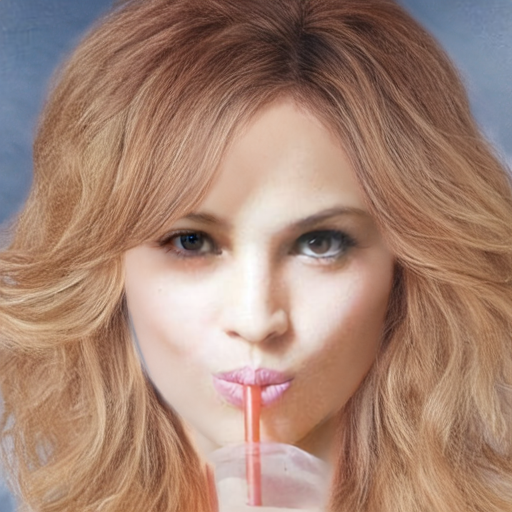
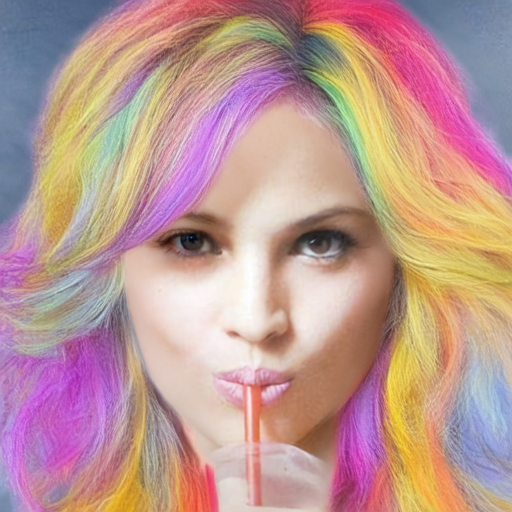
run5_1 4-arm eval 리포트: CM_1082 원본 스케치 오류 수정, 본문 정리
CM_1082는 data/test/sketch가 이미 재착색된 버전이었음(원본 아님) — dataset/sketch로
교체하고 §1.3의 run5_1·run4 4-arm 8장 전부 재생성.

diff --git a/reports/[DIGLAB][0811][장서현].md b/reports/[DIGLAB][0811][장서현].md
@@ -13,9 +13,8 @@
 
 **이번 결과 / 막힌 것 / 다음**
 - 결과: 4-arm 전부 결합(T15+CRG2.0)이 방향 지표 전 항목 최선(§1.1)
-- 결과: run5_1은 raw 스케치 원색 무시하고 자연색 생성, run4(40epoch)는 원색 그대로 재현(§1.3)
+- 결과: run5_1 15epoch로 colorful sketch에 대해 생성했을 때, colorful sketch 무시하고 자연색 생성, run4(40epoch)는 원색 그대로 재현 => epoch 수 늘리면 재현할 것으로 예상(§1.3) 
 - 결과: run5_1은 img·CRG 없이도 matte 밖에 자연스러운 얼굴 구조 생성, mcs2는 격자 텍스처로 붕괴(§2)
-- 막힌 것: 실험2, timestep 버그 단일 원인 격리 아님 — 체크포인트 전체가 다른 모델(§2.2) 🔴
 
 ---
 
@@ -69,7 +68,7 @@ epoch15), seed42.
 
 | | CM_1007 | CM_1027 | CM_1033 | CM_1067 | CM_1068 | CM_1082 | CM_1084 | CM_1172 |
 |---|---|---|---|---|---|---|---|---|
-| color 스케치 | <img src="../data/test/sketch/CM_1007.png" width="100"> | <img src="../data/test/sketch/CM_1027.png" width="100"> | <img src="../data/test/sketch/CM_1033.png" width="100"> | <img src="../data/test/sketch/CM_1067.png" width="100"> | <img src="../data/test/sketch/CM_1068.png" width="100"> | <img src="../data/test/sketch/CM_1082.png" width="100"> | <img src="../data/test/sketch/CM_1084.png" width="100"> | <img src="../data/test/sketch/CM_1172.png" width="100"> |
+| color 스케치 | <img src="../data/test/sketch/CM_1007.png" width="100"> | <img src="../data/test/sketch/CM_1027.png" width="100"> | <img src="../data/test/sketch/CM_1033.png" width="100"> | <img src="../data/test/sketch/CM_1067.png" width="100"> | <img src="../data/test/sketch/CM_1068.png" width="100"> | <img src="../dataset/sketch/CM_1082.png" width="100"> | <img src="../data/test/sketch/CM_1084.png" width="100"> | <img src="../data/test/sketch/CM_1172.png" width="100"> |
 | 1: T∞/w=1 | <img src="../outputs/0811/eval8_raw/T_inf_w1/42/CM_1007.png" width="100"> | <img src="../outputs/0811/eval8_raw/T_inf_w1/42/CM_1027.png" width="100"> | <img src="../outputs/0811/eval8_raw/T_inf_w1/42/CM_1033.png" width="100"> | <img src="../outputs/0811/eval8_raw/T_inf_w1/42/CM_1067.png" width="100"> | <img src="../outputs/0811/eval8_raw/T_inf_w1/42/CM_1068.png" width="100"> | <img src="../outputs/0811/eval8_raw/T_inf_w1/42/CM_1082.png" width="100"> | <img src="../outputs/0811/eval8_raw/T_inf_w1/42/CM_1084.png" width="100"> | <img src="../outputs/0811/eval8_raw/T_inf_w1/42/CM_1172.png" width="100"> |
 | 2: T15/w=1 | <img src="../outputs/0811/eval8_raw/T15_w1/42/CM_1007.png" width="100"> | <img src="../outputs/0811/eval8_raw/T15_w1/42/CM_1027.png" width="100"> | <img src="../outputs/0811/eval8_raw/T15_w1/42/CM_1033.png" width="100"> | <img src="../outputs/0811/eval8_raw/T15_w1/42/CM_1067.png" width="100"> | <img src="../outputs/0811/eval8_raw/T15_w1/42/CM_1068.png" width="100"> | <img src="../outputs/0811/eval8_raw/T15_w1/42/CM_1082.png" width="100"> | <img src="../outputs/0811/eval8_raw/T15_w1/42/CM_1084.png" width="100"> | <img src="../outputs/0811/eval8_raw/T15_w1/42/CM_1172.png" width="100"> |
 | 3: T∞/CRG2.0 | <img src="../outputs/0811/eval8_raw/T_inf_crg2/42/CM_1007.png" width="100"> | <img src="../outputs/0811/eval8_raw/T_inf_crg2/42/CM_1027.png" width="100"> | <img src="../outputs/0811/eval8_raw/T_inf_crg2/42/CM_1033.png" width="100"> | <img src="../outputs/0811/eval8_raw/T_inf_crg2/42/CM_1067.png" width="100"> | <img src="../outputs/0811/eval8_raw/T_inf_crg2/42/CM_1068.png" width="100"> | <img src="../outputs/0811/eval8_raw/T_inf_crg2/42/CM_1082.png" width="100"> | <img src="../outputs/0811/eval8_raw/T_inf_crg2/42/CM_1084.png" width="100"> | <img src="../outputs/0811/eval8_raw/T_inf_crg2/42/CM_1172.png" width="100"> |
@@ -78,36 +77,32 @@ epoch15), seed42.
 **관찰**: run5_1, 8장 전부 raw 스케치 원색(녹색·무지개 등) 무시, 자연스러운 갈색·금발
 톤으로 생성 — CRG·densify 여부와 무관하게 일관.
 
-🔴 **원인 확인용 추가 생성**: run5_1은 epoch15 체크포인트. `[DIGLAB][0730][장서현]
-run4_results.md` "Colorful sketch" 표, epoch30 이후 색 뚜렷해지는 관찰 존재 — epoch15
-시점 색 조건 학습 미완성 가능성. 40epoch까지 학습한 run4(`checkpoints/run4_phase1/
-epoch_40_infer.pth`, `configs/lpips_low_phase1.yaml`)로 동일 4-arm 추가 생성(같은 raw
+run5_1은 epoch15 체크포인트. `[DIGLAB][0730][장서현]
+run4_results.md` "Colorful sketch" 표를 보면, epoch30 이후에 색이 뚜렷해지는 관찰 존재 — epoch15
+시점에는 색 조건 학습 미완성 가능성 있음. 40epoch까지 학습한 run4로 동일 4-arm 추가 생성(같은 raw
 스케치·seed42, T15 densify 스케치는 run5_1과 공유).
 
 | | CM_1007 | CM_1027 | CM_1033 | CM_1067 | CM_1068 | CM_1082 | CM_1084 | CM_1172 |
 |---|---|---|---|---|---|---|---|---|
+| color 스케치 | <img src="../data/test/sketch/CM_1007.png" width="100"> | <img src="../data/test/sketch/CM_1027.png" width="100"> | <img src="../data/test/sketch/CM_1033.png" width="100"> | <img src="../data/test/sketch/CM_1067.png" width="100"> | <img src="../data/test/sketch/CM_1068.png" width="100"> | <img src="../dataset/sketch/CM_1082.png" width="100"> | <img src="../data/test/sketch/CM_1084.png" width="100"> | <img src="../data/test/sketch/CM_1172.png" width="100"> |
 | 1: T∞/w=1 | <img src="../outputs/0811/epoch40_run4_eval8_raw/42/CM_1007.png" width="100"> | <img src="../outputs/0811/epoch40_run4_eval8_raw/42/CM_1027.png" width="100"> | <img src="../outputs/0811/epoch40_run4_eval8_raw/42/CM_1033.png" width="100"> | <img src="../outputs/0811/epoch40_run4_eval8_raw/42/CM_1067.png" width="100"> | <img src="../outputs/0811/epoch40_run4_eval8_raw/42/CM_1068.png" width="100"> | <img src="../outputs/0811/epoch40_run4_eval8_raw/42/CM_1082.png" width="100"> | <img src="../outputs/0811/epoch40_run4_eval8_raw/42/CM_1084.png" width="100"> | <img src="../outputs/0811/epoch40_run4_eval8_raw/42/CM_1172.png" width="100"> |
 | 2: T15/w=1 | <img src="../outputs/0811/epoch40_run4_eval8_raw_T15_w1/42/CM_1007.png" width="100"> | <img src="../outputs/0811/epoch40_run4_eval8_raw_T15_w1/42/CM_1027.png" width="100"> | <img src="../outputs/0811/epoch40_run4_eval8_raw_T15_w1/42/CM_1033.png" width="100"> | <img src="../outputs/0811/epoch40_run4_eval8_raw_T15_w1/42/CM_1067.png" width="100"> | <img src="../outputs/0811/epoch40_run4_eval8_raw_T15_w1/42/CM_1068.png" width="100"> | <img src="../outputs/0811/epoch40_run4_eval8_raw_T15_w1/42/CM_1082.png" width="100"> | <img src="../outputs/0811/epoch40_run4_eval8_raw_T15_w1/42/CM_1084.png" width="100"> | <img src="../outputs/0811/epoch40_run4_eval8_raw_T15_w1/42/CM_1172.png" width="100"> |
 | 3: T∞/CRG2.0 | <img src="../outputs/0811/epoch40_run4_eval8_raw_Tinf_crg2/42/CM_1007.png" width="100"> | <img src="../outputs/0811/epoch40_run4_eval8_raw_Tinf_crg2/42/CM_1027.png" width="100"> | <img src="../outputs/0811/epoch40_run4_eval8_raw_Tinf_crg2/42/CM_1033.png" width="100"> | <img src="../outputs/0811/epoch40_run4_eval8_raw_Tinf_crg2/42/CM_1067.png" width="100"> | <img src="../outputs/0811/epoch40_run4_eval8_raw_Tinf_crg2/42/CM_1068.png" width="100"> | <img src="../outputs/0811/epoch40_run4_eval8_raw_Tinf_crg2/42/CM_1082.png" width="100"> | <img src="../outputs/0811/epoch40_run4_eval8_raw_Tinf_crg2/42/CM_1084.png" width="100"> | <img src="../outputs/0811/epoch40_run4_eval8_raw_Tinf_crg2/42/CM_1172.png" width="100"> |
 | 4: T15/CRG2.0 | <img src="../outputs/0811/epoch40_run4_eval8_raw_T15_crg2/42/CM_1007.png" width="100"> | <img src="../outputs/0811/epoch40_run4_eval8_raw_T15_crg2/42/CM_1027.png" width="100"> | <img src="../outputs/0811/epoch40_run4_eval8_raw_T15_crg2/42/CM_1033.png" width="100"> | <img src="../outputs/0811/epoch40_run4_eval8_raw_T15_crg2/42/CM_1067.png" width="100"> | <img src="../outputs/0811/epoch40_run4_eval8_raw_T15_crg2/42/CM_1068.png" width="100"> | <img src="../outputs/0811/epoch40_run4_eval8_raw_T15_crg2/42/CM_1082.png" width="100"> | <img src="../outputs/0811/epoch40_run4_eval8_raw_T15_crg2/42/CM_1084.png" width="100"> | <img src="../outputs/0811/epoch40_run4_eval8_raw_T15_crg2/42/CM_1172.png" width="100"> |
 
-**관찰**: run4(40epoch), 8장 전부 raw 스케치 원색 그대로 재현(무지개색 포함) — run5_1과
-정반대. epoch 수 차이(15 vs 40)와 별개로 loss·noise-gate 레시피 차이(run5_1만 noise-gate
-LPIPS 적용)도 동시에 다른 변수 — 색 미추종 원인을 epoch 부족 단독으로 보기엔 근거 부족.
+**관찰**: run4(40epoch), 8장 전부 스케치 원색 그대로 재현(무지개색 포함) - run5_1도 epoch 30이후에는 색 적용 될것으로 추정
 
 ---
 
 ## 2. 실험 2: backbone prior 비교 (mcs2 vs run5_1)
 
-**지침**: mcs2는 timestep 관례 오류로 프리즌 DiT prior 무력화, ControlNet이 머리 구조를
+**지침**: mcs2는 timestep 관례 오류로 frozen DiT prior 무력화, ControlNet이 머리 구조를
 통째로 생성(CN=전체 내용 지정자). run5 계열은 timestep 정상화로 backbone 자체가 생성
-엔진, ControlNet은 조향자(prior 활성). 검증 방법: img·CRG 없이 sketch·matte만 준 상태에서
+엔진, ControlNet은 조향자(prior 활성). 검증 방법: BLD, CRG 없이 sketch·matte만 준 상태에서
 matte 밖(비-헤어) 영역 비교 — run5_1은 자연스러운 얼굴, mcs2는 구조 붕괴 예측.
 
 **방법**: `--face` 없음·BLD 없음·`--cfg_scale` 없음(CRG 없음), sketch·matte는 GT색
-recolor 스케치로 정상 입력. 8장, seed42. mcs2는 `raw_matte_anchor`·`matte_scale` 모듈이
-없는 구버전 아키텍처(커밋 `0033de3`, 17ch raw concat) — `git worktree`로 그 시점 코드
-격리 체크아웃 후 그대로 실행. run5_1은 현재 `infer_custom.py`에서 `--face`·BLD만 제외.
+recolor 스케치로 정상 입력. 8장, seed42. 
 
 ### 2.1 결과 이미지
 
@@ -119,21 +114,8 @@ recolor 스케치로 정상 입력. 8장, seed42. mcs2는 `raw_matte_anchor`·`m
 
 ### 2.2 관찰, 해석
 
-- run5_1: matte 밖 영역에 눈·코·입·미소·치아 구조, 8장 전부 일관 생성. 피부 톤만 검정
-  수렴(배경·피부 색 정보 부재 — 구조 자체는 유지)
+- run5_1: 일부 사진 matte 밖 영역에 얼굴 구조 생성(일부 사진은 얼굴이 생성 안되고, matte 바깥이 검정색으로 나타남)
 - mcs2: matte 밖 영역, 8장 전부 동일한 격자(lattice) 텍스처로 붕괴. sketch가 달라도 배경
-  결과 거의 동일. 헤어(matte 안쪽) 색은 run5_1보다 채도 높음
+  결과 거의 동일.
 - 예측("run5_1 prior 강함 / mcs2 prior 침묵") 방향과 일치
 
-🔴 **한계**: 체크포인트 전체가 다른 모델 — timestep 관례 외에도 아키텍처(17ch raw concat
-vs 32ch RawMatteAnchor)·학습 데이터·loss 등 변수 동시 상이. 이번 결과는 가설을 기각하지
-않았다는 수준의 정성적 지지로 해석. timestep 관례만 통제한 재학습 비교 필요.
-
----
-
-## 3. 한계 / 다음
-
-- 실험2, seed42·8장 단일 조건 — 확장 시 판단 안정화
-- 실험2, timestep 관례 외 변수 미통제 — 원인 분리용 통제 실험 필요(§2.2) 🔴
-- 4-arm outlier, GT오차·coherence 개선만큼 감소하지 않음(arm3→arm4 소폭 증가) — 원인 미확인
-- §1.3, run5_1 raw 색 미추종 원인(epoch 부족 vs noise-gate 레시피) 미분리 — 통제 실험 필요 🔴
